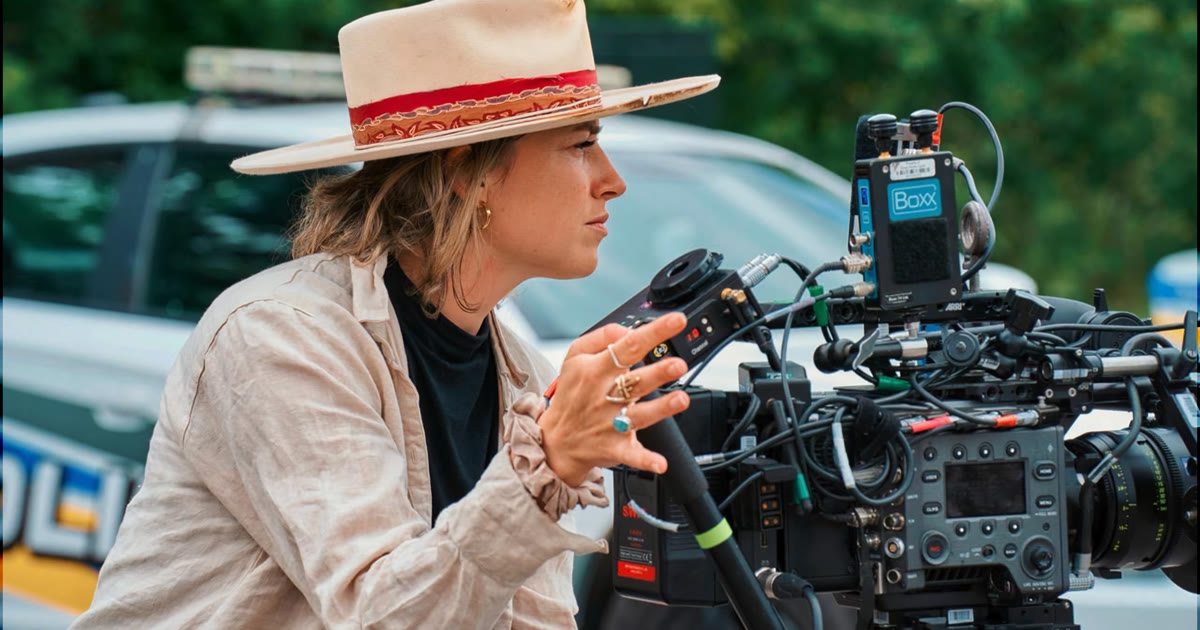
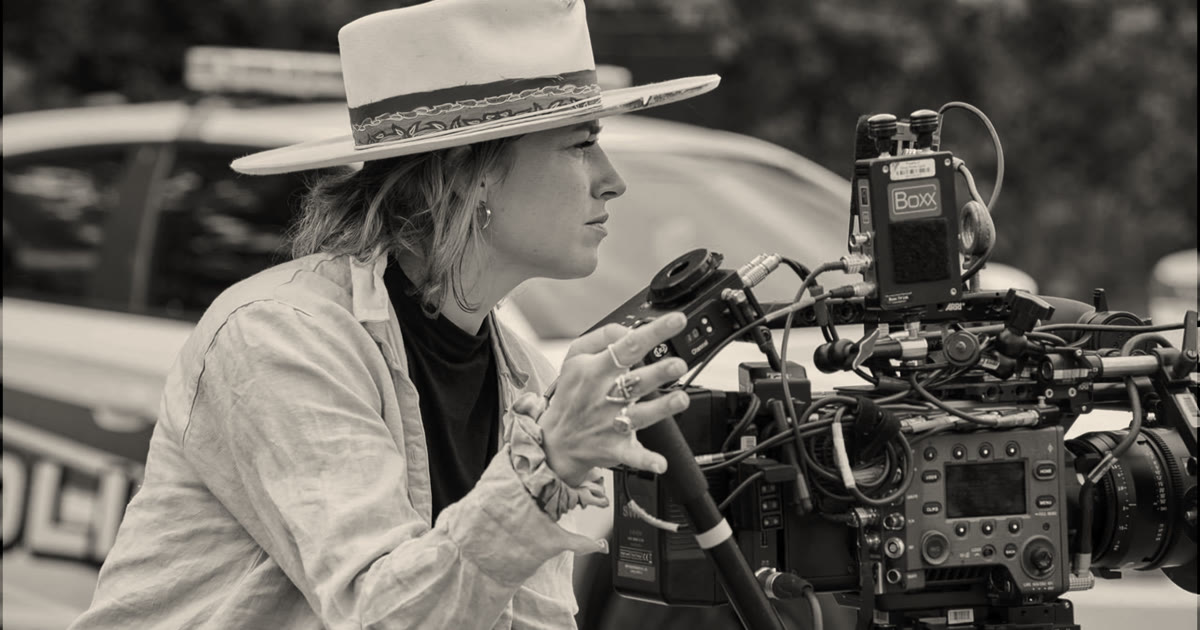
Tone the opening frame warm mono, fix The Greatest credit
Angie: the site is nearly all monochrome and the colour opening photo sat
apart from it. She offered "black and white or sepia", so all three were cut
and judged against the actual ground colour rather than in isolation:

  - neutral greyscale reads cold next to the warm #16140F
  - a full ground-to-bone duotone lifts the blacks until the frame goes hazy
  - greyscale tinted along the identity's warm axis keeps full contrast and
    looks like it belongs to the palette

Baked into the file rather than applied as a CSS filter, because
assets/og/hero.jpg is cut from the same frame — a filter would have left
every shared link in colour while the page was monochrome. All three derived
sizes come off one toned master so the treatment is identical across them.

Re-derived from the 3840px original rather than re-processing the shipped
JPEG, so there is no second generation of compression. The colour master is
gitignored and unrecoverable, so it was verified untouched afterwards:
channel spread 39.0 on the master against a consistent 10.3 on the three
derived files.

The prep script gains --tone so this is reproducible; dropping the flag
reverts the frame to colour.

Worth noting the hat band was the only clay on the page, and the one colour
that echoed the mark's band. The frame is more cohesive without it, but that
tie-in is gone.

The Greatest: Amazon -> Prime Video, S1 -> "S1, Ep. 1–8", following the
typography the other credits already use.

diff --git a/lib/content.ts b/lib/content.ts
@@ -129,8 +129,8 @@ export const SELECTED_CREDITS: SelectedCredit[] = [
     title: "The Greatest",
     role: "A Camera 2nd Unit / B Camera",
     format: "TV Series",
-    studio: "Amazon",
-    episodes: "S1",
+    studio: "Prime Video",
+    episodes: "S1, Ep. 1\u20138",
     order: 5,
   },
   {
@@ -169,6 +169,21 @@ export const WORK_VIDEOS: WorkVideo[] = [];
  */
 export const GALLERY: GalleryImage[] = [
   {
+    /**
+     * Toned warm monochrome at her request — the site is otherwise nearly all
+     * monochrome and the colour original sat apart from it. Neutral greyscale
+     * read cold against the warm ground, and a full ground-to-bone duotone
+     * lifted the blacks until the frame went hazy, so this is greyscale tinted
+     * along the identity's warm axis: full contrast, bone-leaning highlights.
+     *
+     * Baked into the file rather than applied as a CSS filter, because
+     * assets/og/hero.jpg is cut from the same frame — a filter would leave
+     * every shared link in colour while the page was monochrome.
+     *
+     * Reproduce, or revert to colour by dropping --tone:
+     *   scripts/prepare-gallery-image.sh assets/originals/01-operating-alexa.jpg \
+     *     01-operating-alexa 0.5 0.35 --tone
+     */
     src: "/gallery/01-operating-alexa-1920.jpg",
     srcMobile: "/gallery/01-operating-alexa-1280.jpg",
     alt: "Angelia Hughes, in a wide-brimmed hat, operating a cinema camera on an exterior location.",
